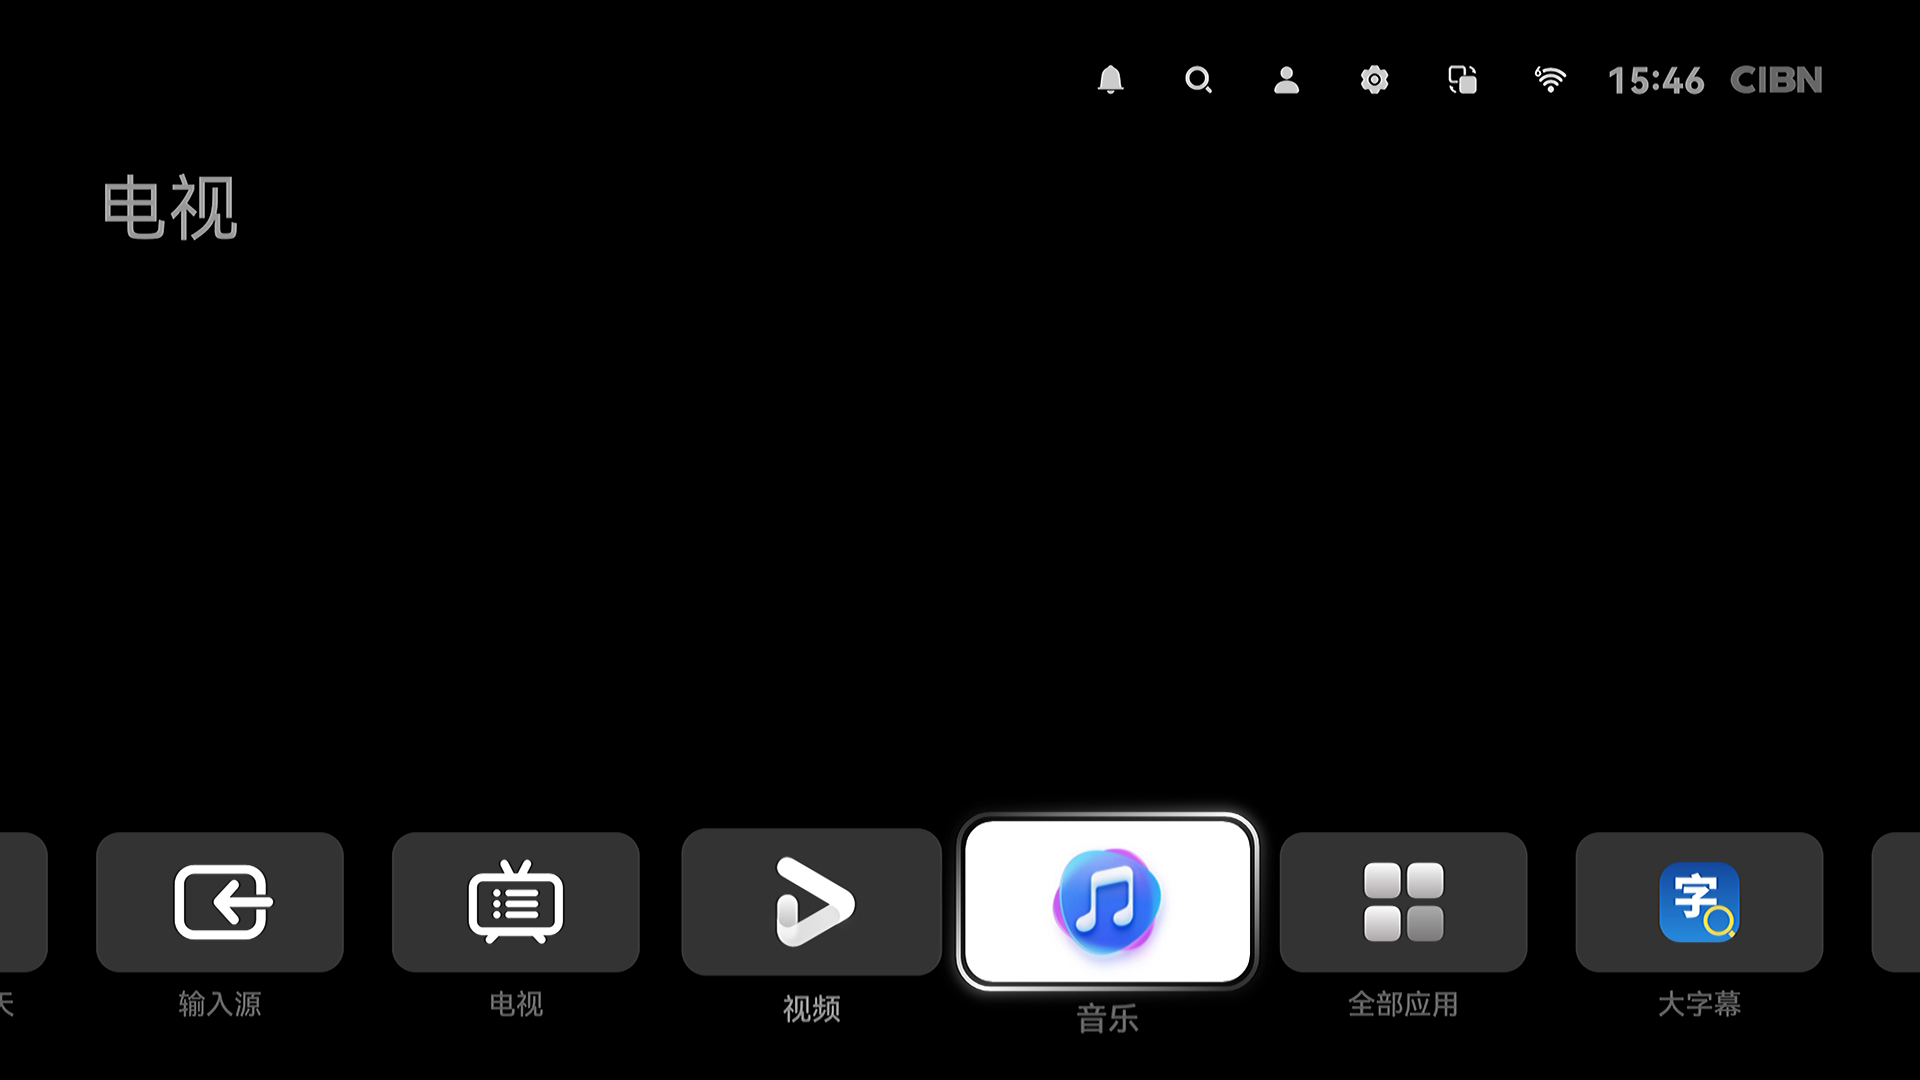
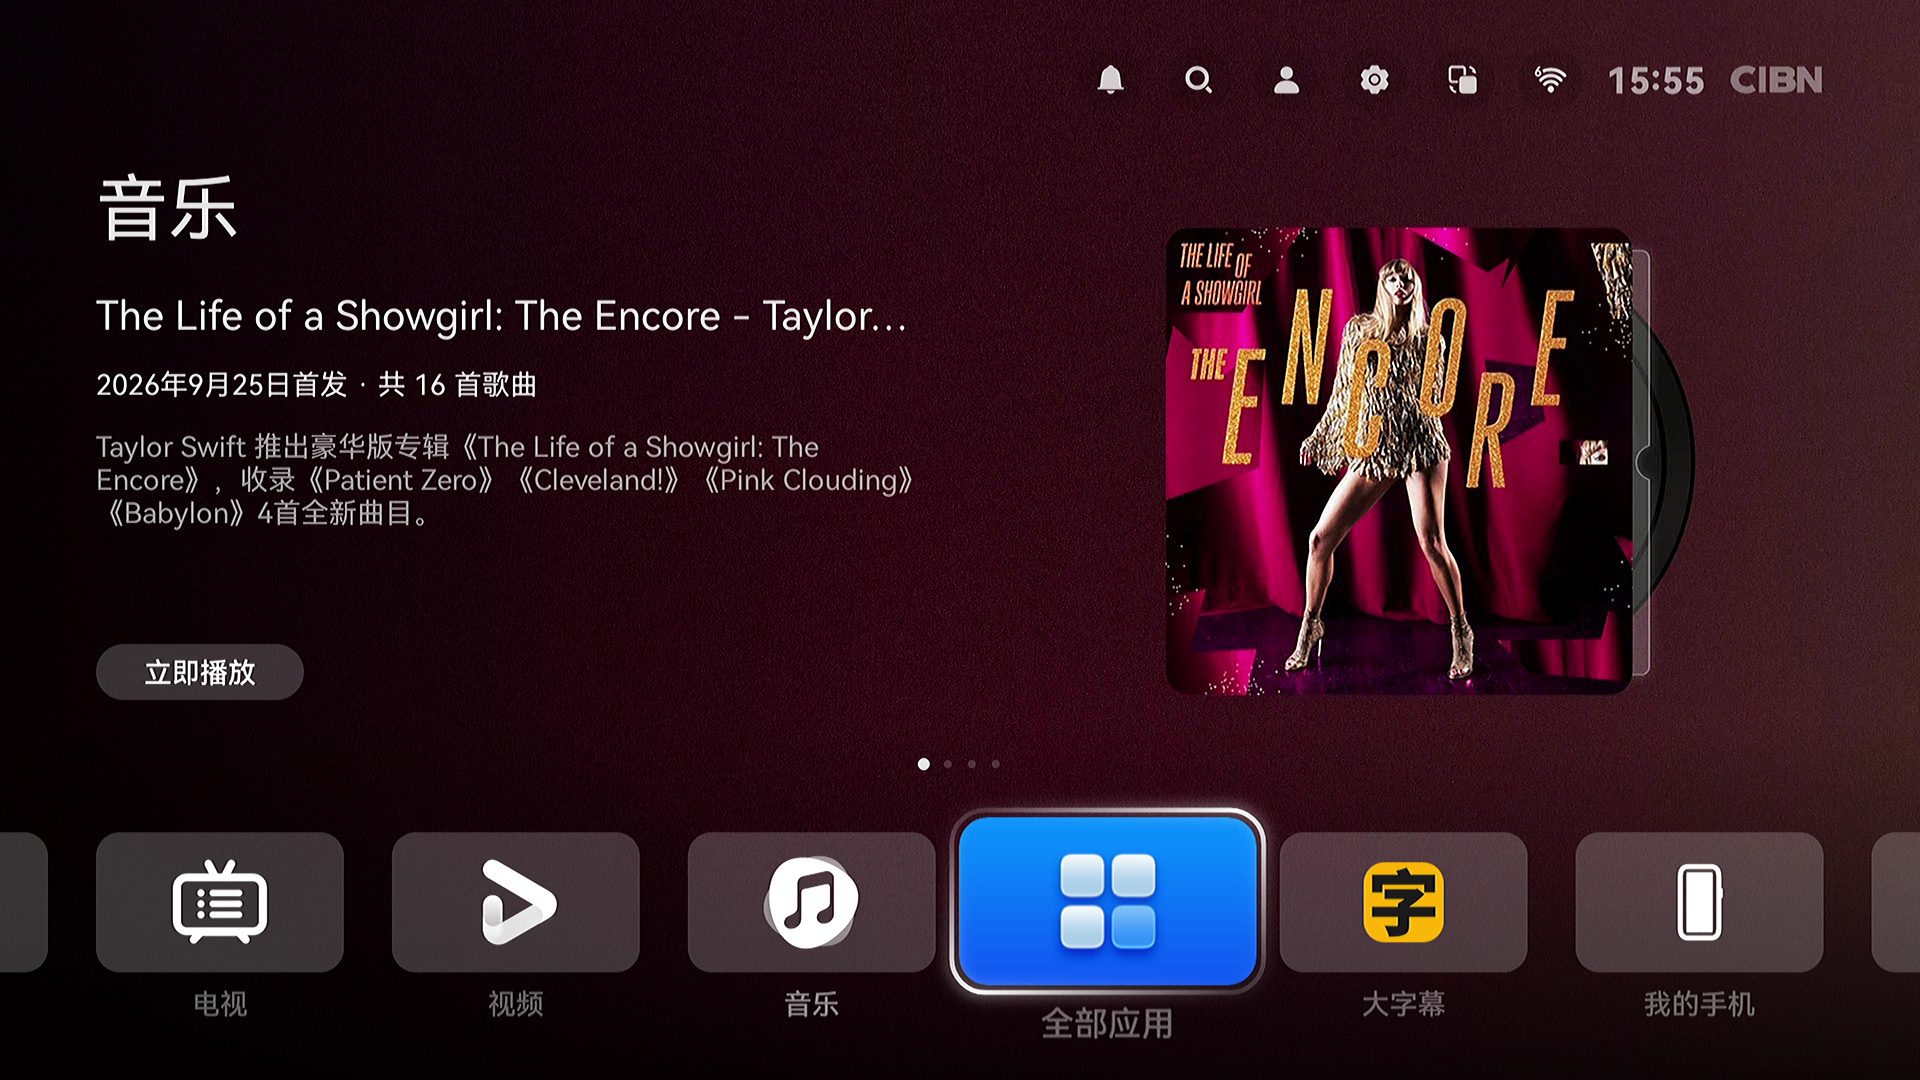
图标简化为黄底黑字，提升远距离可读性

diff --git a/tools/make_icon.py b/tools/make_icon.py
@@ -1,5 +1,5 @@
 #!/usr/bin/env python3
-"""生成桌面图标（蓝底白「字」+ 黄色放大镜）和 leanback banner。"""
+"""生成桌面图标（黄底黑「字」，单字高对比，给视力不好的老人用）和 leanback banner。"""
 import os
 from PIL import Image, ImageDraw, ImageFont
 
@@ -10,30 +10,14 @@ ROOT = os.path.dirname(os.path.dirname(os.path.abspath(__file__)))
 def make_icon(size=512):
     W = size
     img = Image.new("RGBA", (W, W), (0, 0, 0, 0))
-    grad = Image.new("RGB", (1, W))
-    for y in range(W):
-        t = y / (W - 1)
-        grad.putpixel((0, y), (int(13 + 17 * t), int(71 + 65 * t), int(161 + 68 * t)))
-    grad = grad.resize((W, W))
-    mask = Image.new("L", (W, W), 0)
-    ImageDraw.Draw(mask).rounded_rectangle([0, 0, W - 1, W - 1], radius=int(W * 0.22), fill=255)
-    img.paste(grad, (0, 0), mask)
     d = ImageDraw.Draw(img)
-    s = W / 512.0
+    d.rounded_rectangle([0, 0, W - 1, W - 1], radius=int(W * 0.17), fill=(255, 179, 0, 255))
 
-    font = ImageFont.truetype(FONT, int(286 * s), index=2)
+    font = ImageFont.truetype(FONT, int(W * 0.86), index=2)
     bb = d.textbbox((0, 0), "字", font=font)
     tw, th = bb[2] - bb[0], bb[3] - bb[1]
-    d.text(((W - tw) / 2 - bb[0] - 22 * s, (W - th) / 2 - bb[1] - 42 * s),
-           "字", font=font, fill=(255, 255, 255, 255))
-
-    cx, cy, r, lw = 372 * s, 368 * s, 92 * s, 24 * s
-    d.ellipse([cx - r, cy - r, cx + r, cy + r], outline=(255, 213, 79, 255), width=int(lw))
-    hx, hy = 70 * s, 70 * s
-    d.line([cx + hx, cy + hy, cx + hx + 52 * s, cy + hy + 52 * s],
-           fill=(255, 213, 79, 255), width=int(34 * s))
-    ex, ey, rr = cx + hx + 52 * s, cy + hy + 52 * s, 17 * s
-    d.ellipse([ex - rr, ey - rr, ex + rr, ey + rr], fill=(255, 213, 79, 255))
+    d.text(((W - tw) / 2 - bb[0], (W - th) / 2 - bb[1] - W * 0.00),
+           "字", font=font, fill=(26, 26, 26, 255))
     return img
 
 
@@ -46,15 +30,12 @@ def main():
         base.resize((px, px), Image.LANCZOS).save(os.path.join(d, "ic_launcher.png"))
 
     W, H = 320, 180
-    b = Image.new("RGB", (W, H), (13, 71, 161))
+    b = Image.new("RGB", (W, H), (255, 179, 0))
     bd = ImageDraw.Draw(b)
-    for y in range(H):
-        t = y / (H - 1)
-        bd.line([(0, y), (W, y)], fill=(int(13 + 17 * t), int(71 + 65 * t), int(161 + 68 * t)))
     ic = base.resize((120, 120), Image.LANCZOS)
     b.paste(ic, (24, 30), ic)
-    f = ImageFont.truetype(FONT, 58, index=2)
-    bd.text((156, 86), "大字幕", font=f, fill=(255, 255, 255), anchor="lm")
+    f = ImageFont.truetype(FONT, 62, index=2)
+    bd.text((160, 90), "大字幕", font=f, fill=(26, 26, 26), anchor="lm")
     os.makedirs(os.path.join(ROOT, "res/drawable"), exist_ok=True)
     b.save(os.path.join(ROOT, "res/drawable/banner.png"))
     print("icons generated")
